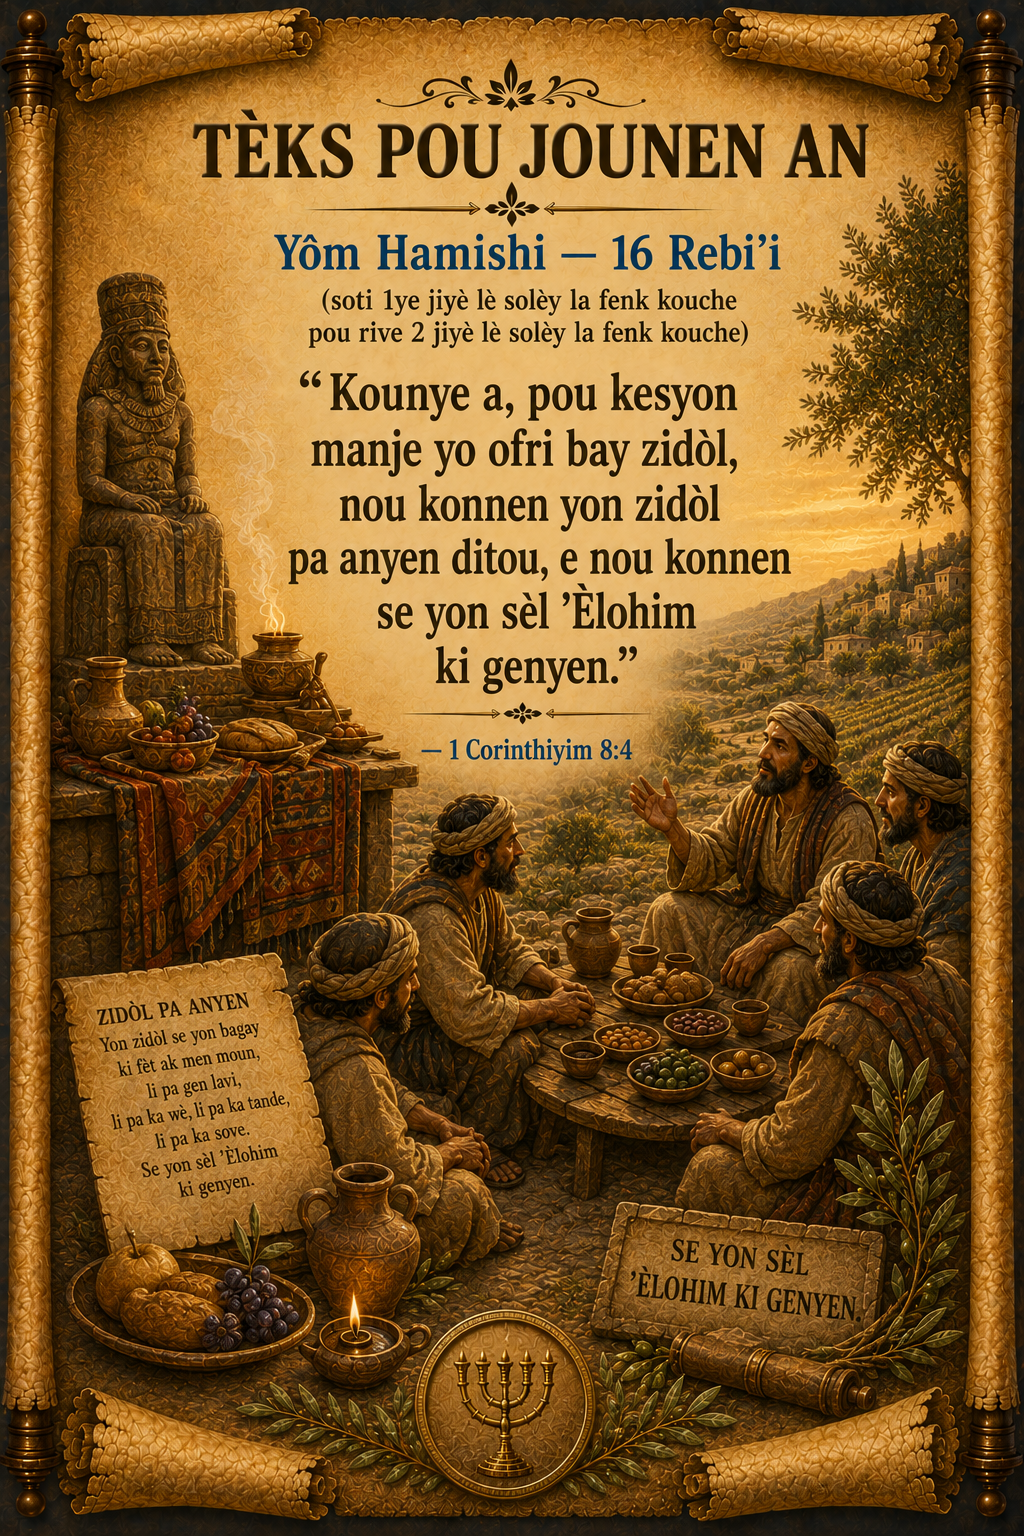
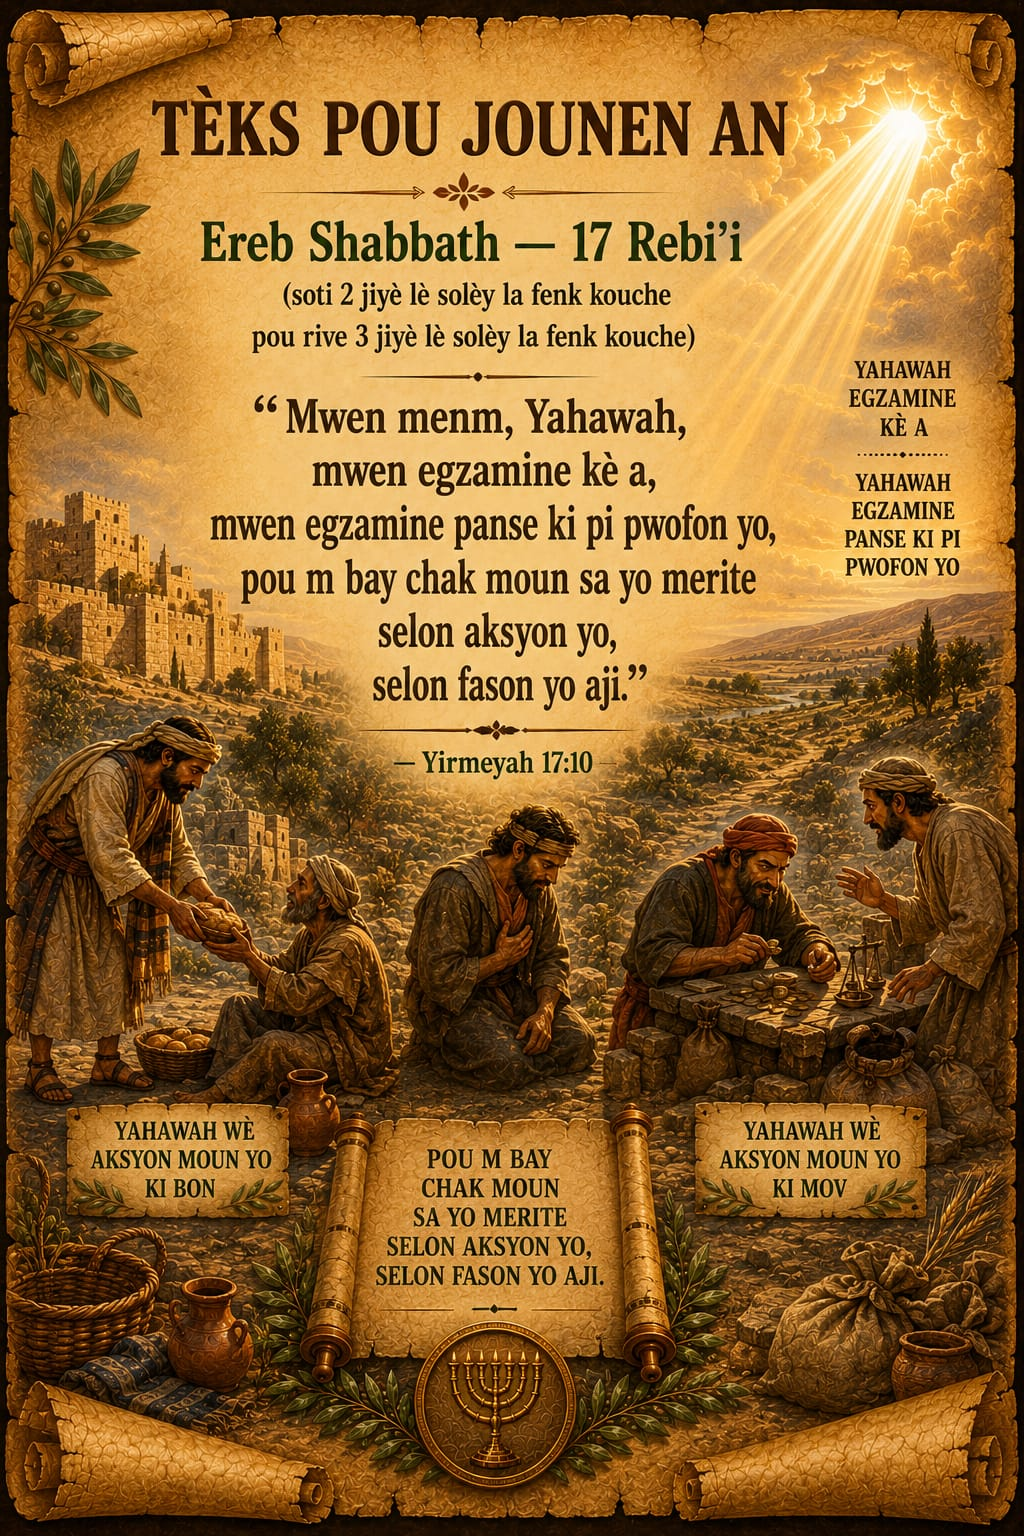
Add files via upload

diff --git a/teks-jounen-anime.html b/teks-jounen-anime.html
@@ -88,7 +88,7 @@ const ILLUSTRASYON = {
     14: 'illus-rebi-14.png',
     15: 'illus-rebi-15.png',
     16: 'illus-rebi-16.jpg',
-    17: 'illus-rebi-17.jpg',
+    17: 'illus-rebi-17.png',
     18: 'illus-rebi-18.png'
   }
 };
